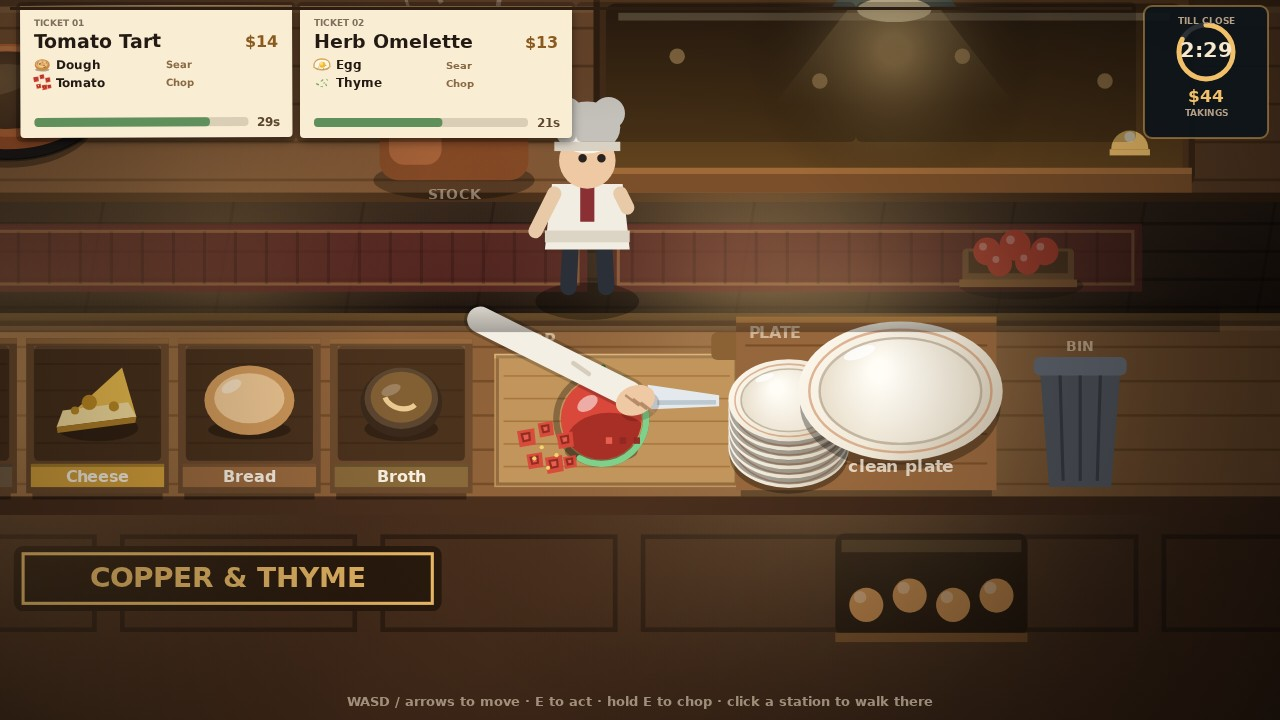
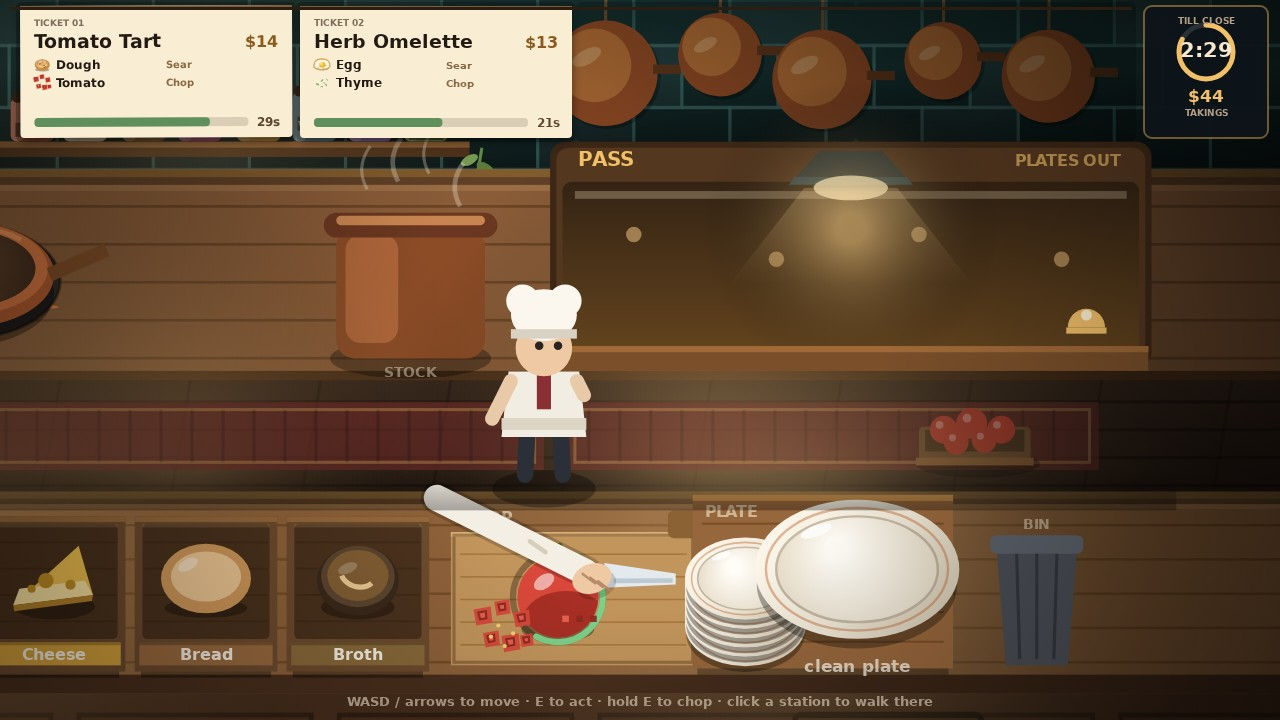
Two frames re-aimed: the board sits in the middle of the chopping shot and the plate line is no longer crowded
The chopping camera lifts off the near counter so the lit back line, the stock
pot and the pass fill what used to be a dead dark band above the cook, and the
cook is stood right up against the board. The plating camera pulls back and
left so the assembly plate, the stack, the bin and the dish under the pass lamp
all sit inside the frame with room around them and PLATES OUT reads clear of the
rail. The 'clean plate' caption moves from on top of the stack of clean plates
to just under the plate's rim.

diff --git a/game/src/shots.js b/game/src/shots.js
@@ -54,7 +54,7 @@ export function stageShot(name, world) {
   if (name === 'chopping') {
     // Close on the board: the knife is halfway through a tomato, the pieces it has already made are
     // at the near edge, the ring says how far the chop has run, and the cook's arm is over it.
-    world.camera = { x: 906, y: 500, zoom: 1.55 };
+    world.camera = { x: 934, y: 385, zoom: 1.55 };
     world.time = SHIFT_SECONDS - 31;
     world.progress = 0.17;
     world.earned = 44;
@@ -70,6 +70,8 @@ export function stageShot(name, world) {
     world.kitchen.burners[0].flare = 0.45;
     steam(world.kitchen, 272, 300, 3, 14);
     teleportChef(world.chef, 872, 452);
+    // stood right up against the board so the arm, the knife and the tomato read as one gesture
+    world.chef.y = 458;
     world.chef.facing = 1;
     world.chef.carry = null;
     for (let i = 0; i < 7; i += 1) {
@@ -78,7 +80,7 @@ export function stageShot(name, world) {
   } else if (name === 'plating') {
     // Close on the plate line: two of three components stacked on the plate, the third still to go,
     // and a finished dish already waiting under the pass lamp behind it.
-    world.camera = { x: 1042, y: 418, zoom: 1.5 };
+    world.camera = { x: 845, y: 372, zoom: 1.45 };
     world.time = 96;
     world.progress = 0.47;
     world.earned = 154;

diff --git a/game/src/stations.js b/game/src/stations.js
@@ -464,7 +464,8 @@ function drawPlateStation(ctx, kitchen, recipes) {
     ctx.font = `600 11px ${FONT}`;
     ctx.fillStyle = 'rgba(255,250,238,0.75)';
     ctx.textAlign = 'center';
-    ctx.fillText('clean plate', cx, box.y + box.h - 12);
+    // tucked under the plate's rim, clear of the stack of clean plates behind it
+    ctx.fillText('clean plate', cx, box.y + box.h + 2);
   }
 }
 
